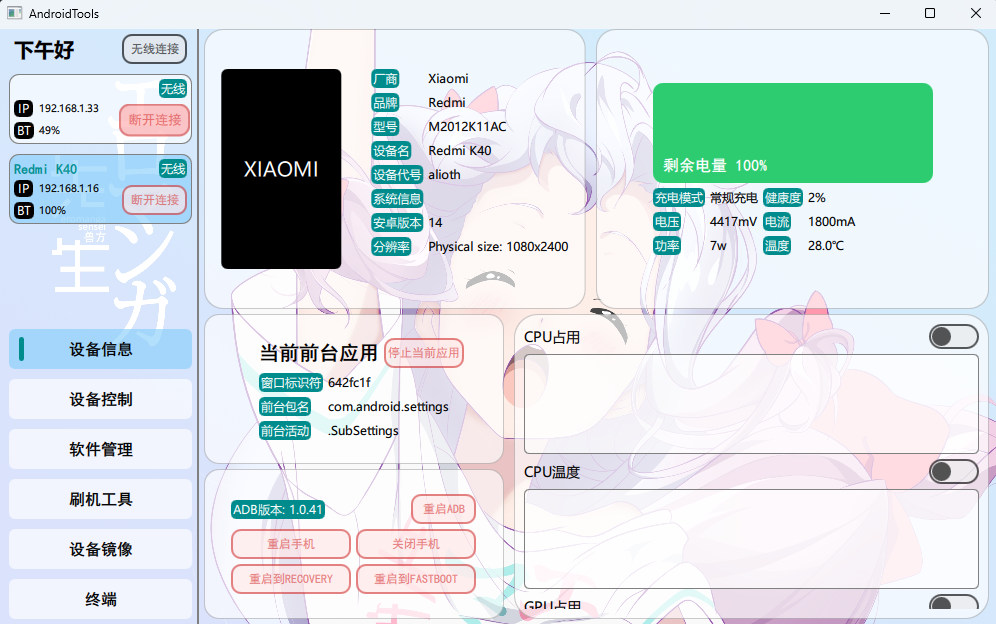
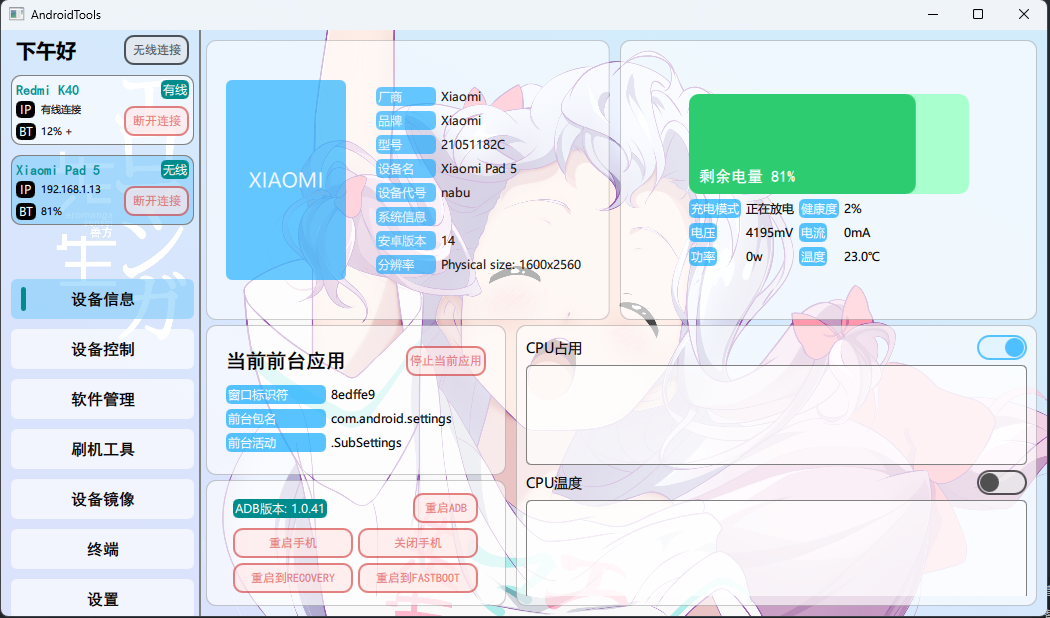
feat: add DeviceAppPage and fix DeviceInfoPage Some problems

diff --git a/src/qml/pages/DeviceAppPage.qml b/src/qml/pages/DeviceAppPage.qml
@@ -1,5 +1,232 @@
 import QtQuick
+import QtQuick.Controls
+import QtQuick.Layouts
+import MFloat
 
 Item {
+    id: root
+    Layout.minimumWidth: 780
+    ColorConstants {
+        id: colorConstants
+    }
+    RowLayout {
+        anchors.fill: parent
+        anchors.topMargin: 10
+        anchors.bottomMargin: 10
+        anchors.rightMargin: 10
 
+        MFrame {
+            Layout.minimumWidth: 300
+            Layout.preferredWidth: parent.width * 0.4
+            Layout.fillHeight: true
+            wrapperColor: Qt.rgba(255, 255, 255, 0.65)
+
+            ColumnLayout {
+                anchors.fill: parent
+                anchors.margins: 10
+
+                RowLayout {
+                    Layout.fillWidth: true
+                    Layout.preferredHeight: 40
+                    Text {
+                        text: "软件列表"
+                        font.pixelSize: 18
+                        font.family: "黑体"
+                    }
+                    Item {
+                        Layout.fillWidth: true
+                    }
+
+                    ComboBox {
+                        id: softListComboBox
+                        Layout.minimumWidth: 80
+                        model: [
+                            "所有应用",
+                            "系统应用",
+                            "第三方应用"
+                        ]
+                    }
+                }
+
+                ListView {
+                    id: softListView
+                    Layout.fillWidth: true
+                    Layout.fillHeight: true
+                    model: 100
+                    spacing: 2
+                    clip: true
+                    delegate: Component{
+                        Rectangle {
+                            width: ListView.view.width
+                            height: 40
+                            border.width: 1
+                            color: "transparent"
+                            border.color: "gray"
+                            radius: 10
+                        }
+                    }
+                }
+            }
+        }
+
+        ColumnLayout {
+            Layout.fillHeight: true
+            Layout.preferredWidth: parent.width * 0.5
+            MFrame {
+                Layout.fillWidth: true
+                Layout.preferredHeight: parent.height * 0.6
+                wrapperColor: Qt.rgba(255, 255, 255, 0.65)
+
+                GridLayout {
+                    anchors.fill: parent
+                    anchors.margins: 10
+                    columns: 6
+                    Text {
+                        text: "包名:"
+                        font.pixelSize: 16
+                        Layout.preferredWidth: 80
+                    }
+                    Text {
+                        text: "com.test.test.test.test"
+                        font.pixelSize: 16
+                        Layout.columnSpan: 5
+                        Layout.fillWidth: true
+                    }
+                    Repeater {
+                        model: softDetailInfoModel
+                        MLabel {
+                            text: model.name
+                            Layout.row: index / 3 + 1
+                            Layout.column: (index % 3) * 2
+                            Layout.preferredWidth: 60
+                            rectColor: colorConstants.suggestClickedColor
+                            vMargin: 4
+                            hMargin: 4
+                        }
+                    }
+
+                    Repeater {
+                        model: softDetailInfoModel
+                        Text {
+                            text: model.info
+                            Layout.row: index / 3 + 1
+                            Layout.column: (index % 3) * 2 + 1
+                            Layout.fillWidth: true
+                        }
+                    }
+
+                    Repeater {
+                        model: softDetailBtnModel
+                        MButton {
+                            text: model.name
+                            btnType: index < 3 ? MButton.FBtnType.Ordinary : MButton.FBtnType.Warning
+                            Layout.columnSpan: 2
+                            Layout.fillWidth: true
+                        }
+                    }
+                }
+            }
+
+            MFrame {
+                Layout.fillWidth: true
+                Layout.fillHeight: true
+                wrapperColor: Qt.rgba(255, 255, 255, 0.65)
+
+                ColumnLayout {
+                    anchors.fill: parent
+                    anchors.margins: 10
+                    Text {
+                        text: "安装软件"
+                        font.pixelSize: 18
+                        font.family: "黑体"
+                    }
+
+                    ColumnLayout {
+                        Layout.fillWidth: true
+                        Repeater {
+                            model: installSoftOptionModel
+                            RowLayout {
+                                Layout.fillWidth: true
+                                Layout.preferredWidth: 30
+                                spacing: 10
+                                MCheckBox {
+
+                                }
+                                Text {
+                                    text: model.name
+                                    font.pixelSize: 12
+                                    horizontalAlignment: Text.AlignHCenter
+                                    verticalAlignment: Text.AlignVCenter
+                                }
+                            }
+                        }
+                    }
+
+                    RowLayout {
+                        Layout.fillWidth: true
+                        MLineEdit {
+                            Layout.fillWidth: true
+                            placeholderText: "安装包路径"
+                        }
+                        MButton {
+                            text: "选择路径"
+                            btnType: MButton.FBtnType.Ordinary
+                        }
+                    }
+
+                    MButton {
+                        Layout.fillWidth: true
+                        text: "开始安装"
+                        btnType: MButton.FBtnType.Suggest
+                    }
+                }
+            }
+        }
+    }
+
+    ListModel {
+        id: softDetailInfoModel
+
+        ListElement {
+            name: "版本号:"
+            info: "-"
+        }
+        ListElement {
+            name: "安装时间:"
+            info: "-"
+        }
+        ListElement {
+            name: "安装者:"
+            info: "-"
+        }
+        ListElement {
+            name: "目标SDK:"
+            info: "-"
+        }
+        ListElement {
+            name: "最小SDK:"
+            info: "-"
+        }
+        ListElement {
+            name: "APPID"
+            info: "-"
+        }
+    }
+    ListModel {
+        id: softDetailBtnModel
+        ListElement { name: "提取软件" }
+        ListElement { name: "冻结软件" }
+        ListElement { name: "解冻软件" }
+        ListElement { name: "卸载软件" }
+        ListElement { name: "清除数据" }
+        ListElement { name: "强行停止" }
+    }
+
+    ListModel {
+        id: installSoftOptionModel
+        ListElement { name: "允许覆盖安装" }
+        ListElement { name: "安装到sdcard" }
+        ListElement { name: "允许降级安装" }
+        ListElement { name: "授予所有运行时权限" }
+    }
 }

diff --git a/src/qml/pages/DeviceInfoPage.qml b/src/qml/pages/DeviceInfoPage.qml
@@ -24,6 +24,10 @@ Item {
         {"name": "FPS"},
     ]
 
+    ColorConstants {
+        id: colorConstants
+    }
+
     property var monitorItems: [0, 1]
     ColumnLayout { // 主界面
         anchors.fill: parent
@@ -47,31 +51,37 @@ Item {
                 wrapperColor: Qt.rgba(255, 255, 255, 0.65)
                 opacity: 0.9
                 RowLayout {
-                    anchors.centerIn: parent
+                    anchors.fill: parent
+                    anchors.margins: 20
                     spacing: 30
                     Rectangle {
-                        height: 200
-                        width: 120
+                        Layout.preferredHeight: 200
+                        Layout.preferredWidth: 120
                         radius: 5 * width / 100
-                        color: "#008c8c"
+                        color: colorConstants.suggestClickedColor
                         Text {
                             anchors.fill: parent
                             text: "XIAOMI"
                             font.pixelSize: 20
-                            color: "#ffffff"
+                            color: "white"
                             horizontalAlignment: Text.AlignHCenter
                             verticalAlignment: Text.AlignVCenter
                         }
                     }
                     GridLayout {
-                        Layout.alignment: Qt.AlignTop
+                        Layout.fillWidth: true
+                        Layout.fillHeight: true
+                        Layout.alignment: Qt.AlignVCenter
                         columns: 2
                         Repeater {
                             model: deviceInfoModel
                             MLabel {
+                                rectColor: colorConstants.suggestClickedColor
                                 text: model.name
                                 Layout.row: index
                                 Layout.column: 0
+                                Layout.preferredWidth: 60
+                                Layout.alignment: Qt.AlignLeft
                             }
                         }
                         Repeater {
@@ -79,6 +89,7 @@ Item {
                             Label {
                                 text: model.info
                                 Layout.row: index
+                                Layout.fillWidth: true
                                 Layout.column: 1
                             }
                         }
@@ -106,6 +117,7 @@ Item {
                             Repeater {
                                 model: batteryModel
                                 MLabel {
+                                    rectColor: colorConstants.suggestClickedColor
                                     text: model.name
                                     Layout.row: index / 2
                                     Layout.column: index % 2 == 1 ? 2 : 0
@@ -131,26 +143,33 @@ Item {
             Layout.bottomMargin: 10
 
             ColumnLayout {
+                Layout.preferredWidth: 300
+                Layout.maximumWidth: 300
+                Layout.fillHeight: true
                 MFrame {    // 当前活动信息
                     id: activityRoot
-                    width: 300
-                    height: 150
+                    Layout.fillWidth: true
+                    Layout.preferredHeight: 150
                     wrapperColor: Qt.rgba(255, 255, 255, 0.65)
                     ColumnLayout {
-                        anchors.centerIn: parent
+                        anchors.fill: parent
+                        anchors.margins: 20
                         RowLayout {
                             Layout.fillWidth: true
-                            Layout.preferredWidth: parent.width
+                            Layout.preferredHeight: 30
                             Text {
                                 font.bold: true
                                 font.family: "黑体"
                                 font.pixelSize: 20
                                 text: "当前前台应用"
                             }
+                            Item {
+                                Layout.fillWidth: true
+                            }
+
                             MButton {
-                                Layout.alignment: Qt.AlignRight
+                                Layout.preferredWidth: 80
                                 text: "停止当前应用"
-                                width: 80
                                 btnType: MButton.FBtnType.Warning
                                 onClicked: {
                                     CutActivityControl.killCutActivity()
@@ -160,31 +179,40 @@ Item {
                         }
                         GridLayout {
                             columns: 2
-                            Layout.maximumWidth: activityRoot.width
-                            Layout.maximumHeight: activityRoot.height
+                            Layout.fillHeight: true
+                            Layout.fillWidth: true
                             MLabel {
+                                Layout.preferredWidth: 100
+                                rectColor: colorConstants.suggestClickedColor
                                 text: "窗口标识符"
                             }
                             Text {
+                                Layout.fillWidth: true
                                 text: CutActivityControl.identifier
                             }
                             MLabel {
+                                Layout.preferredWidth: 100
+                                rectColor: colorConstants.suggestClickedColor
                                 text: "前台包名"
                             }
                             Text {
+                                Layout.fillWidth: true
                                 text: CutActivityControl.cutPackageName
                             }
                             MLabel {
+                                Layout.preferredWidth: 100
+                                rectColor: colorConstants.suggestClickedColor
                                 text: "前台活动"
                             }
                             Text {
+                                Layout.fillWidth: true
                                 text: CutActivityControl.cutActivity
                             }
                         }
                     }
                 }
                 MFrame {    // 简单设备控制
-                    width: 300
+                    Layout.fillWidth: true
                     Layout.fillHeight: true
                     wrapperColor: Qt.rgba(255, 255, 255, 0.65)
                     GridLayout {

diff --git a/src/qml/main.qml b/src/qml/main.qml
@@ -175,7 +175,7 @@ ApplicationWindow {
             id: deviceAppPage
             Page {
                 background: {}
-                DeviceInfoPage {
+                DeviceAppPage {
                     anchors.fill: parent
                 }
             }
